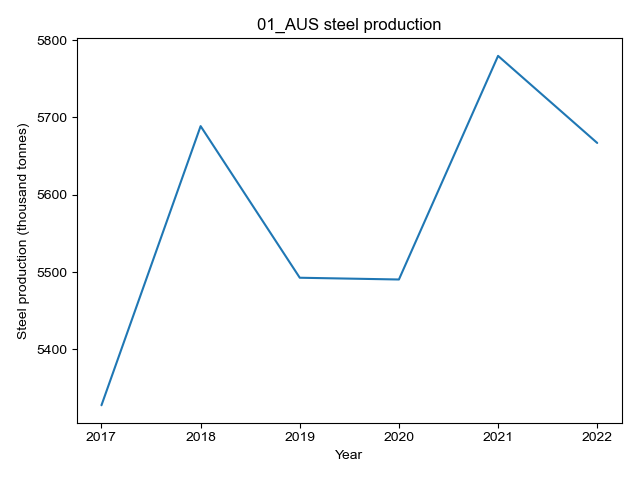
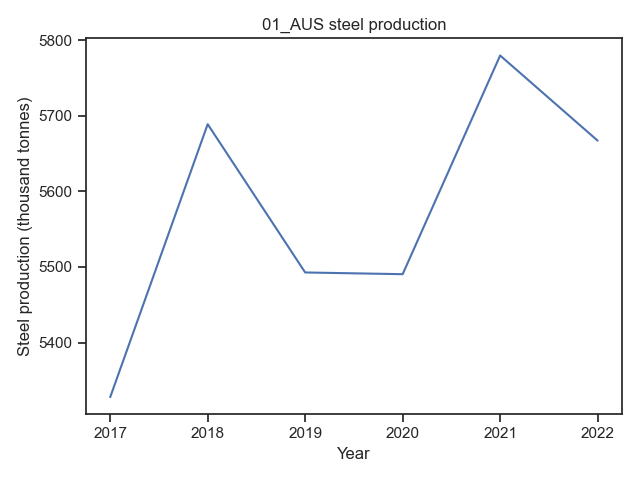
cement and steel

diff --git a/workflow/scripts/4_steel_cement.py b/workflow/scripts/4_steel_cement.py
@@ -1,0 +1,138 @@
+# Set working directory to be the project folder
+import os
+import re
+
+wanted_wd = 'industry_model_9th_edition'
+os.chdir(re.split(wanted_wd, os.getcwd())[0] + wanted_wd)
+
+# Now run config file
+execfile('./config/config_oct2022.py')
+
+# Steel data for WSA
+production_files = './data/production_and_trade/'
+
+prod_files = glob.glob(production_files + '*.xlsx')
+steel_index = [idx for idx, s in enumerate(prod_files) if 'steel_wsa' in s]
+cement_index = [idx for idx, s in enumerate(prod_files) if 'cement' in s]
+
+# Load steel data 
+steel_to_2021 = pd.read_excel(prod_files[steel_index[0]], header = 2, nrows = 125, index_col = 'Country')
+steel_to_2022 = pd.read_excel(prod_files[steel_index[1]], header = 2, nrows = 125, index_col = 'Country')
+
+# Join the two steel data sets
+steel_df = pd.concat([steel_to_2021[[2017]], steel_to_2022], axis = 1).copy().reset_index(drop = False)
+
+# Load the APEC steel economies
+steel_economies = pd.read_csv('./data/production_and_trade/wsa_countries.csv', header = None, index_col = 0)\
+    .squeeze().to_dict()
+
+# And subset the data so that only APEC steel economies remain
+steel_df = steel_df[steel_df['Country'].isin(steel_economies.values())].copy().reset_index(drop = True)
+steel_df['economy_code'] = steel_df['Country'].map({v: k for k, v in steel_economies.items()})
+steel_df = steel_df[['economy_code', 2017, 2018, 2019, 2020, 2021, 2022]].sort_values('economy_code')
+
+steel_df = steel_df.melt(id_vars = 'economy_code').rename(columns = {'variable': 'year'})
+
+steel_df['production'] = 'Steel WSA'
+steel_df['units'] = 'Thousand tonnes'
+
+steel_df = steel_df[['economy_code', 'production', 'units', 'year', 'value']]
+
+# Save steel dataframe
+steel_df.to_csv(production_files + 'steel_wsa_cleaned.csv', index = False)
+
+# Save location for stee; charts
+steel_charts = './results/steel/'
+
+if not os.path.isdir(steel_charts):
+    os.makedirs(steel_charts)
+
+# Steel production charts
+for economy in steel_economies.keys():
+    chart_df = steel_df[steel_df['economy_code'] == economy].reset_index(drop = True)
+
+    fig, ax = plt.subplots()
+    
+    sns.set_theme(style = 'ticks')
+
+    # Capital stock
+    sns.lineplot(ax = ax,
+                data = chart_df,
+                x = 'year',
+                y = 'value')
+    
+    ax.set(title = economy + ' steel production', 
+                xlabel = 'Year', 
+                ylabel = 'Steel production (thousand tonnes)')
+
+    plt.tight_layout()
+    fig.savefig(steel_charts + economy + '_steelprod.png')
+    plt.close()
+
+# Load cement data
+cement_df = pd.read_excel(prod_files[cement_index[0]], header = 5, nrows = 160)\
+    .rename(columns = {'Country or locality': 'economy'})
+cement_df = cement_df[['economy', '2016', 2017, '2018', '2019', '2020']]
+
+APEC_cement = ['Australiae', 'Canada', 'Chile', 'China', 'Hong Kong', 'Indonesia', 'Japan', 
+               'Korea, Republic of', 'Malaysia', 'Mexico', 'New Zealande', 'Papua New Guineae', 
+               'Peru', 'Philippines', 'Russia', 'Taiwan', 'Thailand', 'United States7', 'Vietnam']
+
+cement_df = cement_df[cement_df['economy'].isin(APEC_cement)].copy()\
+    .replace({'Australiae': 'Australia',
+              'Hong Kong': 'Hong Kong, China',
+              'Korea, Republic of': 'Korea',
+              'New Zealande': 'New Zealand',
+              'Papua New Guineae': 'Papua New Guinea',
+              'Taiwan': 'Chinese Taipei',
+              'United States7': 'United States',
+              'Vietnam': 'Viet Nam'}).reset_index(drop = True)
+
+cement_df.to_csv(production_files + 'cement_usgs_cleaned.csv', index = False)
+cement_df = pd.read_csv(production_files + 'cement_usgs_cleaned.csv')
+
+# Load the APEC cement economies
+cement_economies = pd.read_csv('./data/production_and_trade/cement_economies.csv', header = None, index_col = 0)\
+    .squeeze().to_dict()
+
+cement_df['economy_code'] = cement_df['economy'].map({v: k for k, v in cement_economies.items()})
+cement_df = cement_df[['economy_code', 'economy', '2016', '2017', '2018', '2019', '2020']].sort_values('economy_code')
+cement_df = cement_df.melt(id_vars = ['economy_code', 'economy']).rename(columns = {'variable': 'year'})
+
+cement_df['production'] = 'Cement USGS'
+cement_df['units'] = 'Thousand tonnes'
+
+cement_df = cement_df[['economy_code', 'economy', 'production', 'units', 'year', 'value']]
+
+# Save cement dataframe
+cement_df.to_csv(production_files + 'cement_usgs_cleaned.csv', index = False)
+
+APEC_cement = list(cement_df['economy_code'].unique())
+
+# Save location for cement charts
+cement_charts = './results/cement/'
+
+if not os.path.isdir(cement_charts):
+    os.makedirs(cement_charts)
+
+# Cement charts
+for economy in APEC_cement:
+    chart_df = cement_df[cement_df['economy_code'] == economy].reset_index(drop = True)
+
+    fig, ax = plt.subplots()
+    
+    sns.set_theme(style = 'ticks')
+
+    # Capital stock
+    sns.lineplot(ax = ax,
+                data = chart_df,
+                x = 'year',
+                y = 'value')
+    
+    ax.set(title = economy + ' cement production', 
+                xlabel = 'Year', 
+                ylabel = 'Cement production (thousand tonnes)')
+
+    plt.tight_layout()
+    fig.savefig(cement_charts + economy + '_cementprod.png')
+    plt.close()

diff --git a/workflow/scripts/5_production.py b/workflow/scripts/5_production.py
@@ -20,9 +20,11 @@ industry_sectors = pd.read_csv('./data/EGEDA/industry_egeda.csv', header = None)
 macro_apec = pd.read_csv('./data/macro/APEC_GDP_population.csv')
 
 list(industry_sectors.values())
-macro_apec.variable.unique()
+list(macro_apec.variable.unique())
 
 # Want a function that creates a trajectory from historical (eg 2000) to 2100 for all subsectors
+
+
 
 # I dont have historical production for subectors for each of the economies
 # I could source some of this information
